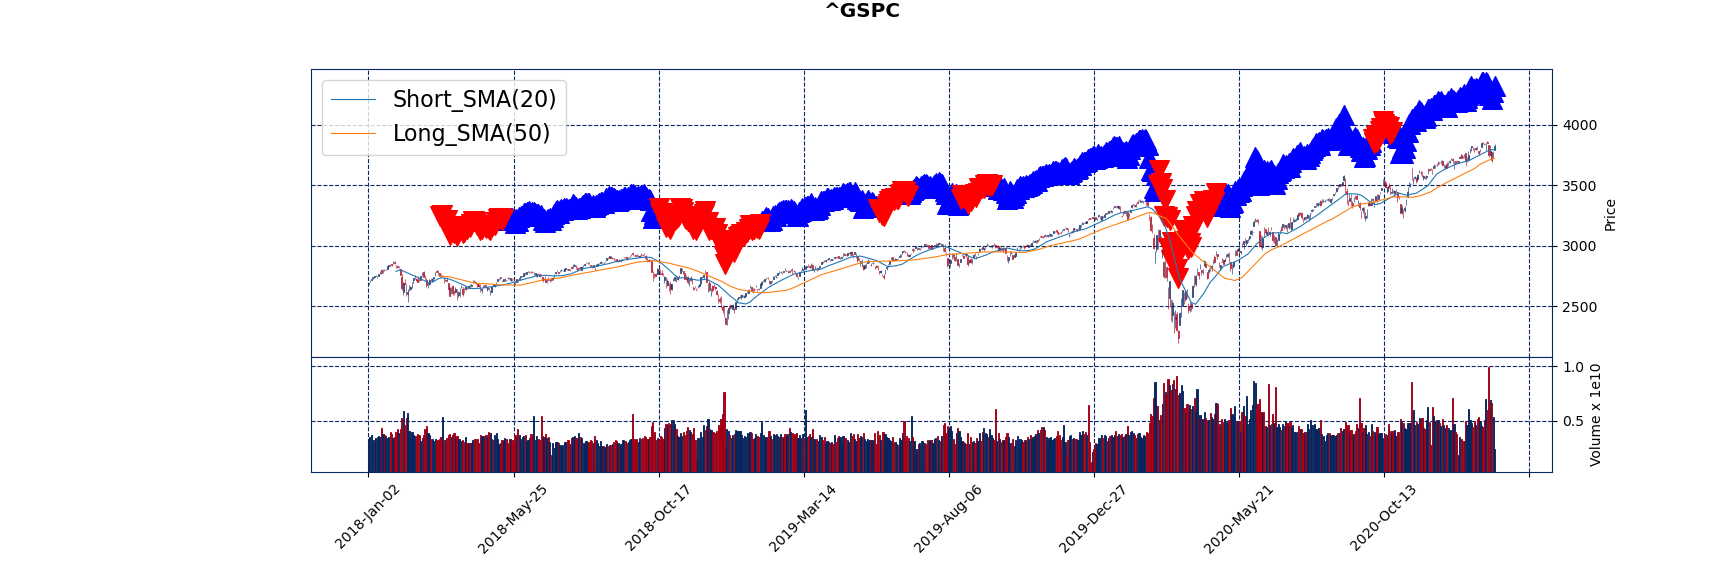
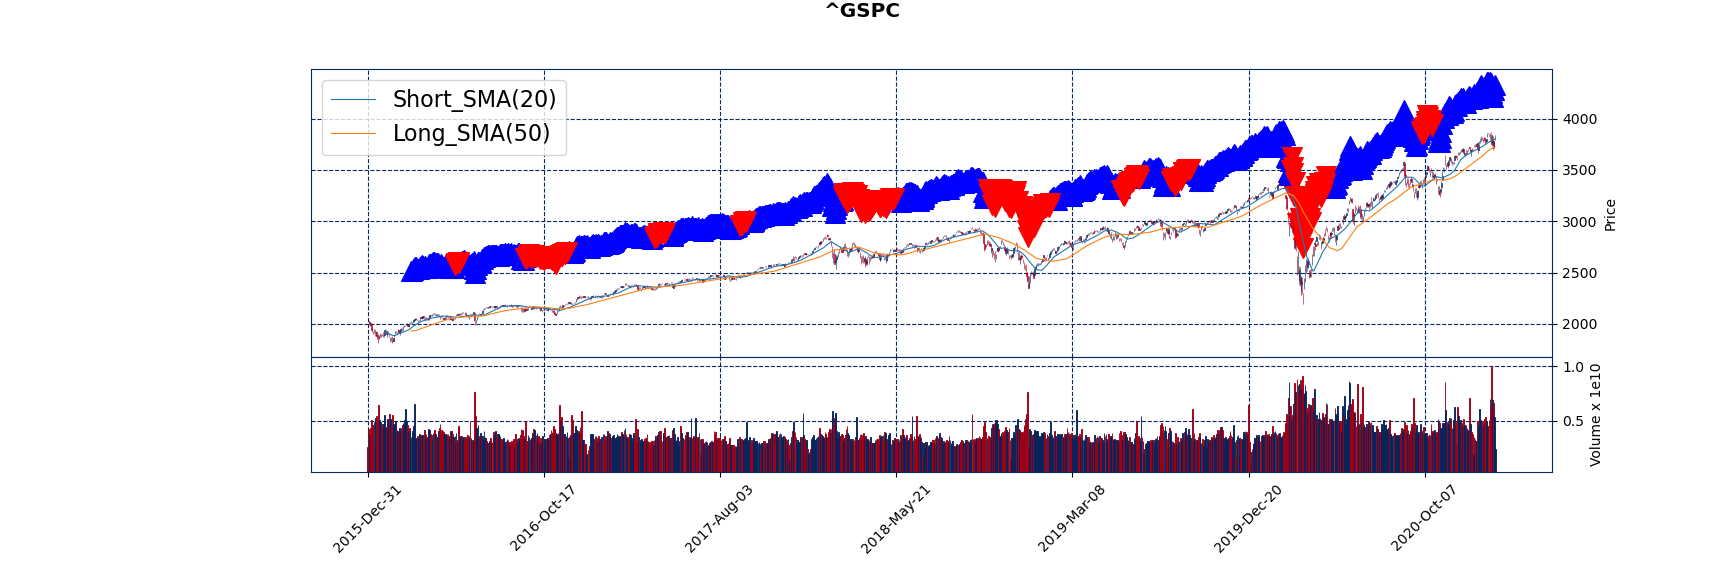
unko

diff --git a/Model_Check/trend_check_chart.py b/Model_Check/trend_check_chart.py
@@ -1,0 +1,56 @@
+def SMA(stock_code, term=14, start="2018-01-01", end=dt.datetime.now()):
+    df = yf.download(stock_code, start, end, interval='1d') 
+
+    # calculation SMA
+    short_sma = 20
+    long_sma = 50
+    SMAs = [short_sma, long_sma]
+    for i in SMAs:
+        df["SMA_"+str(i)] = df.iloc[:,4].rolling(window=i).mean()
+
+    # judge Up trend or Down trend by SMA
+    # Basics: if shorter SMA is higher than longer SMA, its now in up-trend area. Down-trend area if it's in the opposite condition.
+    position = 0 # 1 means we ave already entered position, 0 means not already entered.
+    counter = 0
+    up_trend_days = []
+    down_trend_days = []
+    percentChange = []
+    for i in df.index:
+        SMA_short = df['SMA_20']
+        SMA_long = df['SMA_50']
+
+        if (SMA_short[i] > SMA_long[i]):
+            up_trend_days.append(i)
+
+        elif (SMA_short[i] < SMA_long[i]):
+            down_trend_days.append(i)
+
+
+    up_signals = []
+    down_signals = []
+    for i in df.index:
+        if i in up_trend_days:
+            up_signals.append(df['Adj Close'][i] + 10)
+        else:
+            up_signals.append(np.nan)
+        if i in down_trend_days:
+            down_signals.append(df['Adj Close'][i] + 10)
+        else:
+            down_signals.append(np.nan)
+    return { 'df': df, 'up_trend_days': up_trend_days, 'down_trend_days':down_trend_days, 'up_signals':up_signals, 'down_signals': down_signals } 
+
+# plot
+stock_code = 'UAA' 
+result = SMA(stock_code)
+adp = [
+    mpf.make_addplot(result['up_signals'], type='scatter', markersize=200, marker='^', color="b"),
+    mpf.make_addplot(result['down_signals'], type='scatter', markersize=200, marker='v', color="r"),
+]
+fig, ax = mpf.plot(result['df'], type='candle', figratio=(45, 15),
+        mav=(20, 50),
+        addplot=adp,
+        volume=True, title=str(stock_code)+" SMA",
+        style='starsandstripes', returnfig=True)
+legend = ['Short_SMA(20)', 'Long_SMA(50)']
+ax[0].legend(legend, fontsize=16)
+fig.savefig('./sma.png')
